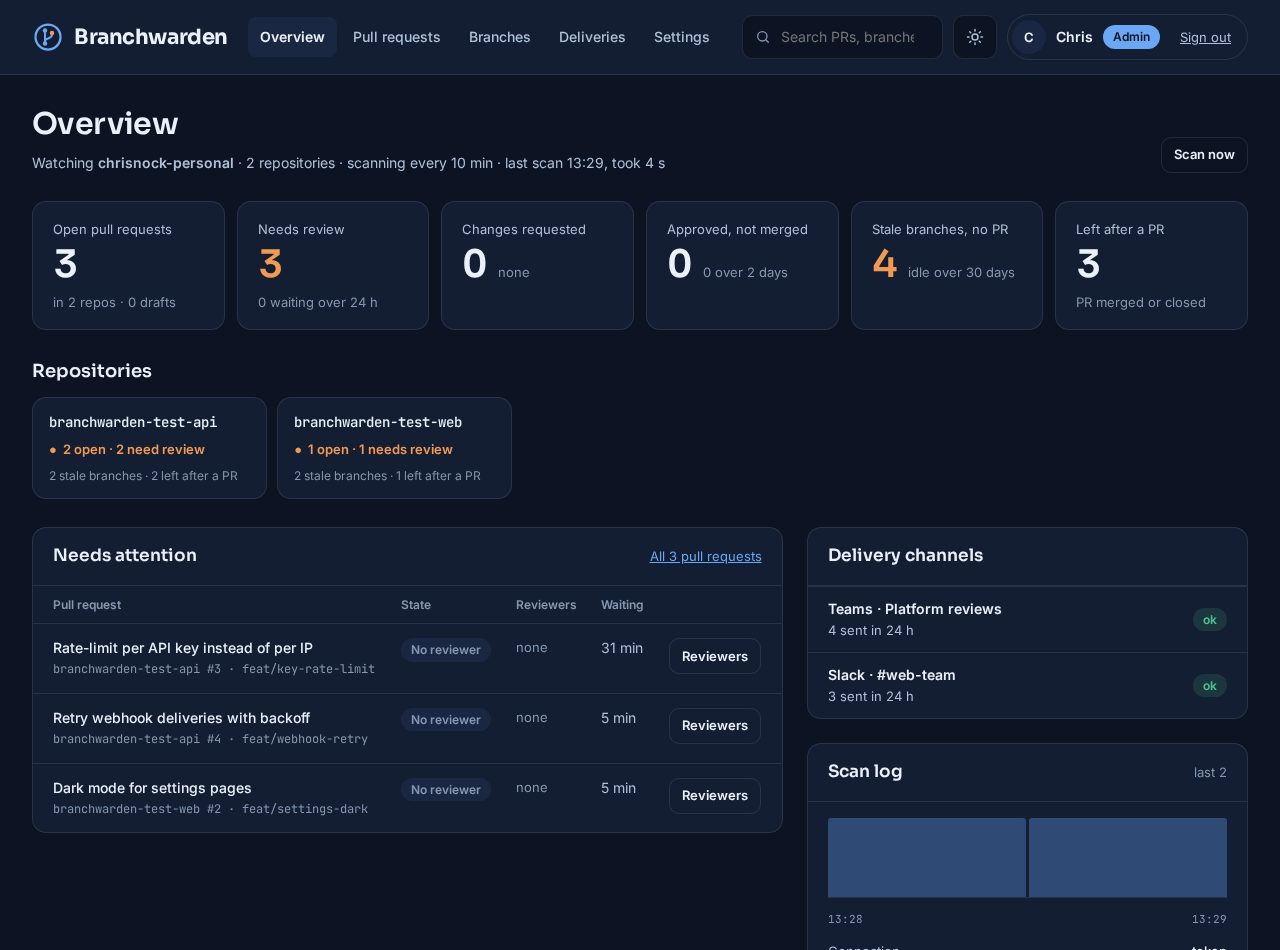
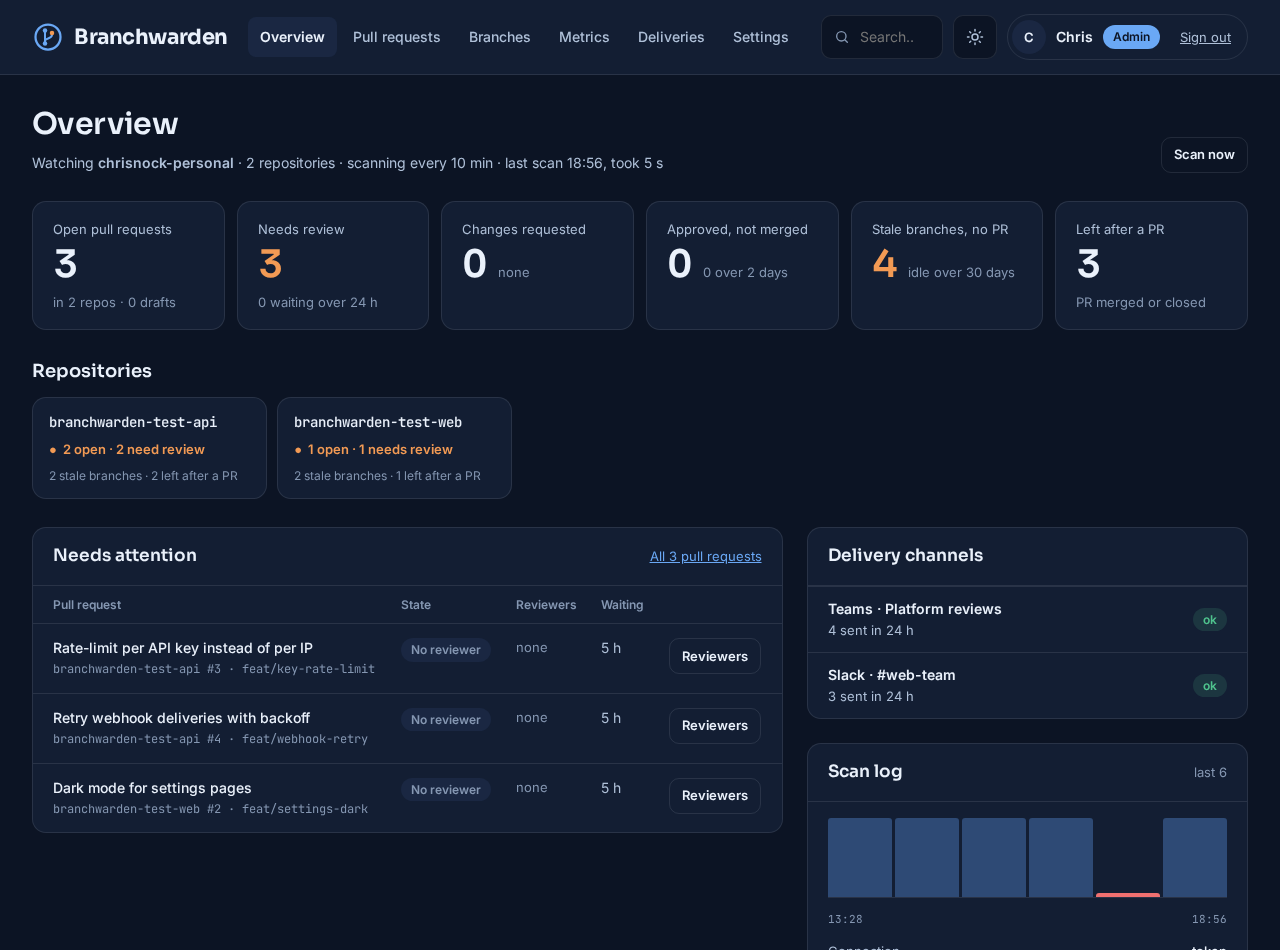
Branchwarden: auto-assign, snooze, Slack threads, metrics and GitHub sign-in

diff --git a/branchwarden/README.md b/branchwarden/README.md
@@ -1,14 +1,14 @@
 # Branchwarden
 
-**A self-hosted dashboard for engineering teams that watches every pull request and branch across a GitHub organisation or account. It shows what each PR is waiting on, flags stale branches and branches left behind by merged PRs, lets you request reviewers from the browser, and reminds people in Microsoft Teams or Slack when a review, merge or close is overdue.**
+**A self-hosted dashboard for engineering teams that watches every pull request and branch across a GitHub organisation or account. It shows what each PR is waiting on, flags stale branches and branches left behind by merged PRs, requests reviewers (by hand or automatically), and reminds people in Microsoft Teams or Slack when a review, merge or close is overdue.**
 
-GitHub shows pull requests one repository at a time, and only to the people already looking. Across a few dozen repos, nobody can see which PRs have waited three days for a reviewer, which ones were approved and then forgotten, or how many branches are still around months after their PR merged. Branchwarden scans the lot on a schedule (or as soon as a webhook says something changed), works out each PR's state and who has to act next, and tells the right channel. It only reads branches: it never pushes and never deletes, and its one write to GitHub is requesting reviewers.
+GitHub shows pull requests one repository at a time, and only to the people already looking. Across a few dozen repos, nobody can see which PRs have waited three days for a reviewer, which ones were approved and then forgotten, or how many branches are still around months after their PR merged. Branchwarden scans everything on a schedule, or as soon as a webhook says something changed. It works out each PR's state and who has to act next, tells the right channel, and keeps the numbers that show whether reviews are getting faster or slower. It only reads branches: it never pushes and never deletes. Its one write to GitHub is requesting reviewers.
 
 Source code: [github.com/chrisnock-personal/branchwarden](https://github.com/chrisnock-personal/branchwarden)
 
 ![The Branchwarden overview in its default dark theme: summary tiles, a card per repository, the pull requests that need attention, delivery channel health and the scan log](images/01-overview.png)
 
-*The overview during a test run on 9 November 2026, against two throwaway private repositories set up for it: 13 branches with backdated commits, three open pull requests, one merged and one closed.*
+*The overview during a test run on 9 November 2026, against two throwaway private repositories set up for it: 13 branches with backdated commits, three open pull requests, one merged and one closed. The red bar in the scan log is a scan that ran while the host was restarting and couldn't reach GitHub; the next one recovered on its own.*
 
 ---
 
@@ -17,11 +17,12 @@ Source code: [github.com/chrisnock-personal/branchwarden](https://github.com/chr
 | | |
 |---|---|
 | **Pull requests** | Every open PR across the accounts you add, with one headline state (draft, conflicts, changes requested, approved, no reviewer, in review, awaiting review), CI status, who it's waiting on and for how long |
-| **Reviewers** | Request or withdraw reviewers from the dashboard. Suggestions come from CODEOWNERS and from who has reviewed in that repo recently, along with each person's current review load |
+| **Reviewers** | Request or withdraw reviewers from the dashboard, with suggestions from CODEOWNERS and recent reviewers. Or let a rule pick one automatically: code owners first, then whoever is least busy |
 | **Branches** | Branches with no PR, flagged stale after a set number of days; branches left behind by a merged PR, by a closed PR, or pushed to after their merge. All are flagged only, never deleted |
-| **Teams and Slack** | Messages when a PR opens or is marked ready, gets a review, merges or closes. Reminders when it sits too long, counted in working hours. A weekly digest of branches to tidy up. Teams Adaptive Cards and Slack Block Kit, with @mentions |
-| **GitHub connections** | A GitHub App, a personal access token, or both: the App where it's installed, otherwise the token. Webhooks trigger a rescan within seconds. Can point at GitHub Enterprise Server |
-| **Secure by default** | HTTPS with a generated certificate and an upload page, secrets sealed with AES-256-GCM, no default accounts, and three roles |
+| **Teams and Slack** | Messages when a PR opens or is marked ready, gets a review, merges or closes. Reminders when it sits too long, counted in working hours, each with a snooze button. A weekly digest of branches to tidy up. In Slack, each PR's messages can stay in one thread |
+| **Metrics** | Time to first review, time to merge, merges per week, and daily trends of PRs needing review and stale branches, overall or per repo |
+| **GitHub** | A GitHub App, a personal access token, or both. Webhooks trigger a rescan within seconds. Can point at GitHub Enterprise Server |
+| **Access and security** | Sign in with GitHub, with roles taken from GitHub teams, or local accounts. HTTPS with a generated certificate and an upload page, secrets sealed with AES-256-GCM, no default accounts, three roles |
 
 ---
 
@@ -34,11 +35,21 @@ Each open PR gets one headline state, picked by what matters most: a draft is a 
 *Three open PRs, none with a reviewer yet. The panel on the right is where members and admins request reviewers.*
 
 **Requesting reviewers.** The panel suggests people and teams in this order:
-- The **CODEOWNERS** of the files the PR changes. The last matching rule wins, as on GitHub.
-- People who have **reviewed in that repo** recently.
-- Everyone else in the organisation, with a filter box.
+- the **CODEOWNERS** of the files the PR changes (the last matching rule wins, as on GitHub),
+- people who have **reviewed in that repo** recently,
+- everyone else in the organisation, with a filter box.
 
-Each candidate shows how many open reviews they already have. Ticking someone requests their review on GitHub, and unticking someone who is already requested withdraws the request. A notice can go to the PR's channels at the same time. If GitHub refuses (it won't let authors review their own PRs, for example), its reason is shown as it came back.
+Each candidate shows how many open reviews they already have. Ticking someone requests their review on GitHub, and unticking someone already requested withdraws the request. A notice can go to the PR's channels at the same time. If GitHub refuses (it won't let authors review their own PRs, for example), its reason is shown as it came back.
+
+**Auto-assign.** A rule can do this unasked. It applies when a PR has had nobody asked to review it for a set time, one working hour by default.
+- **Who it picks:** code owners of the changed files first. Then the least busy person in a pool of logins and teams, where each team's members count separately; with no pool, the repo's recent reviewers. "Least busy" means fewest open review requests now, then fewest assignments in the last 14 days.
+- **Never picked:** the PR's author.
+- **Limits:** only in working hours, and only once each time a PR is left without a reviewer.
+- **Telling the channel:** it posts who was picked and why.
+
+It's off until an admin switches it on, because it writes to GitHub.
+
+![The auto-assign rule being edited: the wait, how many reviewers, code owners first, the pool, repos and skip label](images/03-auto-assign.png)
 
 ---
 
@@ -49,13 +60,13 @@ Two lists, side by side:
 - **No pull request.** Branches nobody has opened a PR for, flagged stale once they've had no commits for 30 days. That's a setting, and the page can switch to 14, 60 or 90 days to look around. Each one shows when it was last touched, by whom, and how far it is ahead of and behind the default branch.
 - **Left after a PR.** Branches whose newest PR merged (their commits are already in the base) or closed without merging. A branch that someone pushed to after its PR merged is called out separately, because deleting it would lose work.
 
-![The branches page: four stale branches without a PR, from 45 to 212 days idle, with the never-flag patterns and ignored branches alongside](images/03-branches-stale.png)
+![The branches page: four stale branches without a PR, from 45 to 212 days idle, with the never-flag patterns and ignored branches alongside](images/04-branches-stale.png)
 
 *The test repos' backdated branches: `spike/graphql-gateway` last touched 212 days ago, a 2-day-old branch still marked active.*
 
 Default and protected branches are never listed. Neither are names matching the never-flag patterns (`main`, `develop`, `release/*`, `hotfix/*`, `gh-pages` by default). A member can ignore any single branch, and reverse that later.
 
-![The branches left after a pull request: two after a merge and one closed unmerged](images/04-branches-left.png)
+![The branches left after a pull request: two after a merge and one closed unmerged](images/05-branches-left.png)
 
 *`fix/csv-escape` and `feat/invoice-pdf` were merged without deleting their branches; `feat/dark-charts` was closed unmerged.*
 
@@ -65,7 +76,7 @@ Branchwarden never deletes anything. The way out is GitHub's own "Automatically 
 
 ## Messages to Teams and Slack
 
-Each channel is a webhook: a Teams **Workflows** webhook (the replacement for the retired Office 365 connectors), which receives an Adaptive Card, or a Slack incoming webhook, which receives a Block Kit message. A channel is routed by repo patterns (`api-*`, `my-org/web-console`), by teams (a PR matches when that team is asked to review it), or gets everything.
+Each channel is routed by repo patterns (`api-*`, `my-org/web-console`), by teams (a PR matches when that team is asked to review it), or gets everything. Teams channels use a **Workflows** webhook (the replacement for the retired Office 365 connectors) and receive Adaptive Cards. Slack channels receive Block Kit messages through an incoming webhook or a bot token.
 
 **Events** are posted when a scan sees them happen:
 - a PR opens, or is marked ready for review,
@@ -84,9 +95,17 @@ Each reminder has its own wait, repeat interval and maximum count. Waits can be 
 
 **The weekly digest** lists, per channel, the stale branches and the branches left behind in that channel's repos, with each branch's last committer @mentioned.
 
-![Reminder rules: event rules, four reminders with their waits and limits, one open for editing, and the weekly digest](images/07-settings-channels.png)
+![The rules: event rules, four reminders with their waits and limits, one open for editing, and the weekly digest](images/06-rules.png)
 
-*The rules as shipped. "Waiting for review" is open: 24 working hours, then every 24 working hours, at most three times, @mentioning the reviewers.*
+*"Waiting for review" open for editing: 24 working hours, then every 24 working hours, at most three times, @mentioning the reviewers.*
+
+**Snooze.** Every reminder carries a Snooze button. It opens the PR in Branchwarden, where a member can silence its reminders for 1, 3 or 7 days while it's parked on purpose. The other PRs keep their reminders.
+
+![The reviewer panel of a pull request with its reminders section: snooze for 1, 3 or 7 days](images/07-snooze.png)
+
+**Threads in Slack.** With a bot token instead of a webhook, the first message about a PR starts a thread. Everything after it (the reminder, the review, the auto-assigned reviewer) is a reply in that thread, so a busy channel shows one line per PR. Merges and closes are also shown in the channel, and the digest is posted on its own. Teams webhooks can't reply in a thread, so Teams channels get one card per message.
+
+![A Slack channel set up with a bot token and channel ID, so each PR's messages stay in one thread](images/08-slack-threads.png)
 
 @mentions work through a People page that matches each GitHub login to a Teams user and a Slack member ID. Anyone without a match appears as a bold name, so a message never breaks.
 
@@ -95,15 +114,27 @@ In the test run, three events reached a local test receiver as Teams cards withi
 - the draft `branchwarden-test-web #2` marked ready, with "Reviewers: none yet",
 - the merge of `branchwarden-test-web #1`, noting "The branch `feat/invoice-pdf` is still there".
 
-The Slack channel, routed to the web repo only, got just that repo's messages.
+The Slack channel, routed to the web repo only, got just that repo's messages. Against a stand-in for Slack's API, a PR's first message started a thread. Its reminder went into that thread, and its merge went into the thread and was also shown in the channel.
+
+---
+
+## Metrics
+
+The Metrics page answers "are reviews getting faster?" for the last 30, 90 or 180 days, across everything or one repo:
+- the **median time to first review**, and the share of PRs reviewed within a day,
+- the **median time to merge**, and merges per week,
+- **daily trends** of PRs needing review and of stale branches, from a snapshot written every hour,
+- a table **by repository**, and the **reviewers** with the most requests waiting on them now, with how long the oldest has waited.
+
+Times count from when a PR was ready for review, and an author's own replies don't count as a first review. Every chart can be shown as a table. History starts when Branchwarden starts watching an account, so the page fills in over the first weeks. That's also why there's no screenshot of it here yet: the test repos have a single author and no reviews.
 
 ---
 
 ## Deliveries and scans
 
-Every message is queued per channel and retried with back-off when Teams or Slack answers 429 or 5xx. Other errors are permanent and shown as failed, with the reason, such as Slack's `HTTP 404: no_team` for a webhook that has been removed. One broken channel never holds up another. Webhook URLs are secrets, so they never appear in an error.
+Every message is queued per channel and retried with back-off when Teams or Slack answers 429 or 5xx. Other errors are permanent and shown as failed, with the reason, such as Slack's `HTTP 404: no_team` for a webhook that has been removed. One broken channel never holds up another. Webhook URLs and bot tokens are secrets, so they never appear in an error.
 
-![The deliveries page: channel health, webhook events received, and every message with its status](images/05-deliveries.png)
+![The deliveries page: channel health, webhook events received, and every message with its status](images/09-deliveries.png)
 
 *Each message, its channel and its result. The one webhook event shown was a deliberately unsigned request, refused as "bad signature".*
 
@@ -119,7 +150,7 @@ A full scan of the two test repos took about 4 seconds, and after several scans 
 
 ## Connecting GitHub
 
-![Settings for the GitHub App: App ID, private key, webhook secret and the webhook URL to paste into GitHub](images/06-settings-github.png)
+![Settings for the GitHub App: App ID, private key, webhook secret and the webhook URL to paste into GitHub](images/10-settings-github.png)
 
 Two kinds of connection, usable together:
 - **A GitHub App** suits organisations. It has its own API budget and sends webhooks, so PR changes show up in seconds instead of at the next scan. Once its ID and private key are in, the page lists every installation and its permissions.
@@ -129,26 +160,70 @@ Each account can be set to use the App, the token, or the App with the token as 
 
 ---
 
+## Who gets in
+
+**Sign in with GitHub** works with an OAuth App or the GitHub App's own credentials.
+- **Who gets which role:** admins list logins, `org/team` slugs or whole organisations against each role (admin, member, viewer).
+- **Every sign-in:** the person's role is worked out again from their GitHub teams. Anyone matching no list is turned away, so having a GitHub account isn't enough.
+- **The token:** the sign-in uses PKCE and a state check. The GitHub token is only used to read the person's teams, and is never stored.
+- **Fallback:** local accounts keep working, so an admin can always get in.
+
+![The sign-in with GitHub settings: client ID and secret, the callback URL to register, and the GitHub teams or logins for each role](images/11-github-sign-in.png)
+
+The three roles: *admins* change settings; *members* request reviewers, snooze reminders and ignore branches; *viewers* only read.
+
+---
+
 ## Security
 
 The project was built against a security review of all my repos, with its "secure by default" checklist applied from the first line:
 
-- **HTTPS only.** The dashboard serves TLS 1.2 and up. A self-signed certificate is generated on the first start for the host's names and addresses. An admin can upload a real one, which is checked before anything changes (the key must match, and the certificate must be in date), and the previous one is kept so it can be restored. HSTS is on and cookies are always `Secure`.
-- **Secrets sealed at rest.** The GitHub token, the App's private key, the webhook secret and every channel's webhook URL are encrypted with AES-256-GCM. The key is generated into its own volume, apart from the database, and can be rotated. No secret is ever shown again once saved.
-- **Nothing open by default.** There's no default admin: the first account needs a one-time code from the server's log. The database has no default password and isn't reachable from outside. Webhooks without a valid signature are refused, and so is everything when no secret is set. Forms carry CSRF tokens, sign-ins are throttled, and channel URLs must be HTTPS on Slack's or Microsoft's hosts.
-- **Three roles.** *Admins* change settings, *members* request reviewers and ignore branches, *viewers* only read.
+- **HTTPS only.**
+  - The dashboard serves TLS 1.2 and up. On the first start it generates a self-signed certificate for the host's names and addresses.
+  - An admin can upload a real one. It's checked before anything changes (the key must match, and the certificate must be in date), and the previous one is kept so it can be restored.
+  - HSTS is on, and cookies are always `Secure`.
+- **Secrets sealed at rest.**
+  - The GitHub token, the App's private key, the webhook secret, the sign-in client secret and every channel's webhook URL or bot token are encrypted with AES-256-GCM.
+  - The key is generated into its own volume, apart from the database, and can be rotated.
+  - No secret is ever shown again once saved.
+- **Nothing open by default.**
+  - There's no default admin: the first account needs a one-time code from the server's log.
+  - The database has no default password and isn't reachable from outside.
+  - Webhooks without a valid signature are refused, and so is everything when no secret is set.
+  - Forms carry CSRF tokens, sign-ins are throttled, and channel URLs must be HTTPS on Slack's or Microsoft's hosts.
+- **Data kept no longer than needed.** Closed PRs are kept for 365 days (the metrics use them). Messages and scans are kept for 90 days. Older records are removed every hour.
 
-![The TLS certificate page: the generated self-signed certificate with its names, validity and SHA-256 fingerprint, and the upload form](images/08-settings-tls.png)
+![The TLS certificate page: the generated self-signed certificate with its names, validity and SHA-256 fingerprint, and the upload form](images/12-settings-tls.png)
 
 ---
 
 ## How it runs
 
-Three containers with podman-compose or Docker Compose: Postgres, a worker (scans, rules and delivery) and the dashboard (gunicorn over HTTPS). Settings, channels and rules are all changed in the browser; the `.env` file holds only the database password, the published port and certificate names.
+Three containers with podman-compose or Docker Compose: Postgres, a worker (scans, rules, auto-assign, delivery and housekeeping) and the dashboard (gunicorn over HTTPS). Settings, channels and rules are all changed in the browser. The `.env` file holds only the database password, the published port and the certificate's names.
 
 ## Status
 
 New (November 2026).
-- **Tests:** 36 unit tests run on every push, covering PR states, branch rules, CODEOWNERS matching, working-hours maths, message rendering and escaping, webhook signatures, encryption and key rotation, and certificate checks. CI also runs `pip-audit` (no known vulnerabilities in the pinned versions) and `gitleaks`.
-- **End-to-end test:** run against two throwaway private repositories. It covered a first scan, three live events, Teams and Slack delivery to a local test receiver, a digest, a refused review request, and a simulated week of reminders (sent on the first due time, held for the repeat interval, stopped at the maximum, silent on Sunday).
-- **Not yet tested:** a GitHub App installation on a real organisation, GitHub Enterprise Server, and messages posted into real Teams and Slack workspaces.
+
+- **Unit tests:** 47 run on every push. They cover:
+  - PR states, branch rules and CODEOWNERS matching,
+  - reviewer selection and working-hours maths,
+  - message rendering and escaping,
+  - Slack API answers,
+  - webhook signatures, encryption and key rotation,
+  - the GitHub sign-in role rules and certificate checks.
+
+  CI also runs `pip-audit` (no known vulnerabilities in the pinned versions) and `gitleaks`.
+- **End-to-end test:** run against two throwaway private repositories. It covered:
+  - a first scan and three live events,
+  - Teams and Slack delivery, and Slack threads, against local stand-ins,
+  - a digest, and a refused review request,
+  - a simulated week of reminders: sent on the first due time, held for the repeat interval, stopped at the maximum, silent on Sunday, and skipped for a snoozed PR,
+  - auto-assign making one attempt per PR,
+  - the start of a GitHub sign-in, and the refusal of a forged one.
+- **Not yet tested:**
+  - a GitHub App installation on a real organisation,
+  - GitHub Enterprise Server,
+  - a full GitHub sign-in,
+  - an auto-assigned review on a repo with more than one person,
+  - messages in real Teams and Slack workspaces.

diff --git a/README.md b/README.md
@@ -6,7 +6,7 @@ Overviews of my projects: what each one is for, what it does, and how it looks i
 |---|---|
 | [Aggre/Gator](aggre-gator/README.md) | An event aggregator: groups related events from HTTP and SNMP sources by key, follows each group from first event to last, and flags the ones that never finish |
 | [Alfoir](alfoir/README.md) | A platform for running checks and scripts on a schedule, from the server or agents, with results, telemetry, alerts and a status page; tests websites, hosts, APIs and, with CallRaven, phone systems |
-| [Branchwarden](branchwarden/README.md) | Watches the pull requests and branches across a GitHub organisation or account: what each PR is waiting on, stale and left-behind branches, reviewer requests from the browser, and reminders in Teams or Slack |
+| [Branchwarden](branchwarden/README.md) | Watches the pull requests and branches across a GitHub organisation or account: what each PR is waiting on, stale and left-behind branches, reviewers requested by hand or automatically, review metrics, and reminders in Teams or Slack |
 | [CallNest](callnest/README.md) | A call recorder built on open standards: captures calls from Asterisk, SIPREC, SIP or a packet capture, then transcribes, checks and seals them |
 | [CallOwl](callowl/README.md) | A self-hosted call logging platform: collects Open CDR call records from any phone system, then searches, measures and audits them with scoped access |
 | [CallRaven](callraven/README.md) | A containerised SIP softphone and test tool for phone systems: real calls, captured, measured, transcribed and graded, from a web UI or a REST API |
